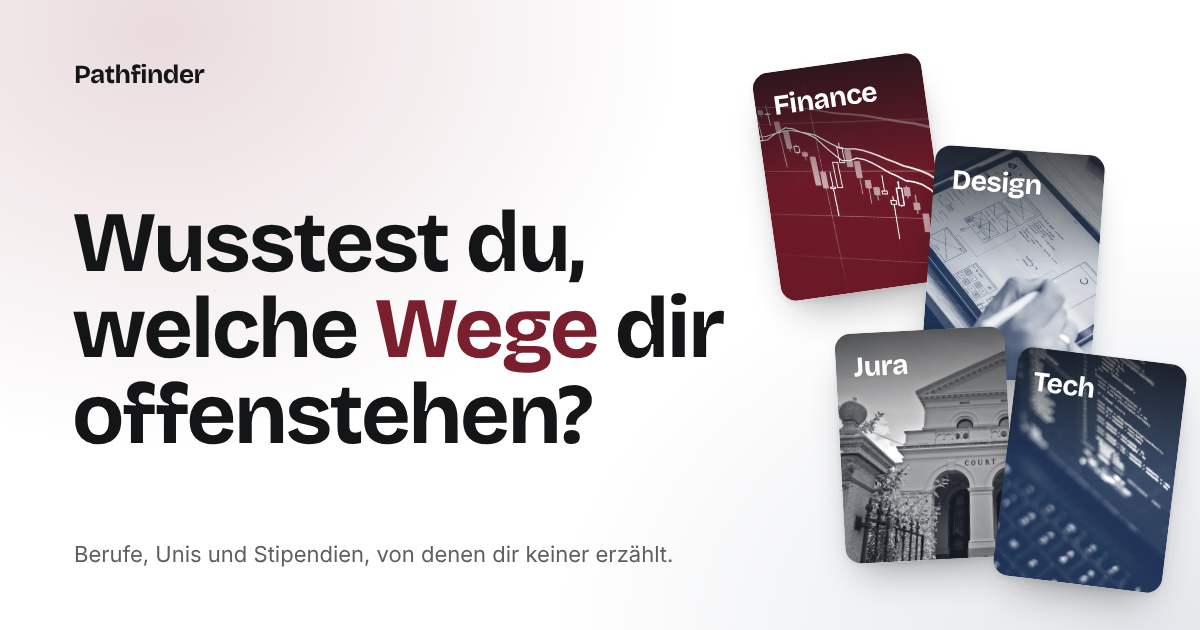
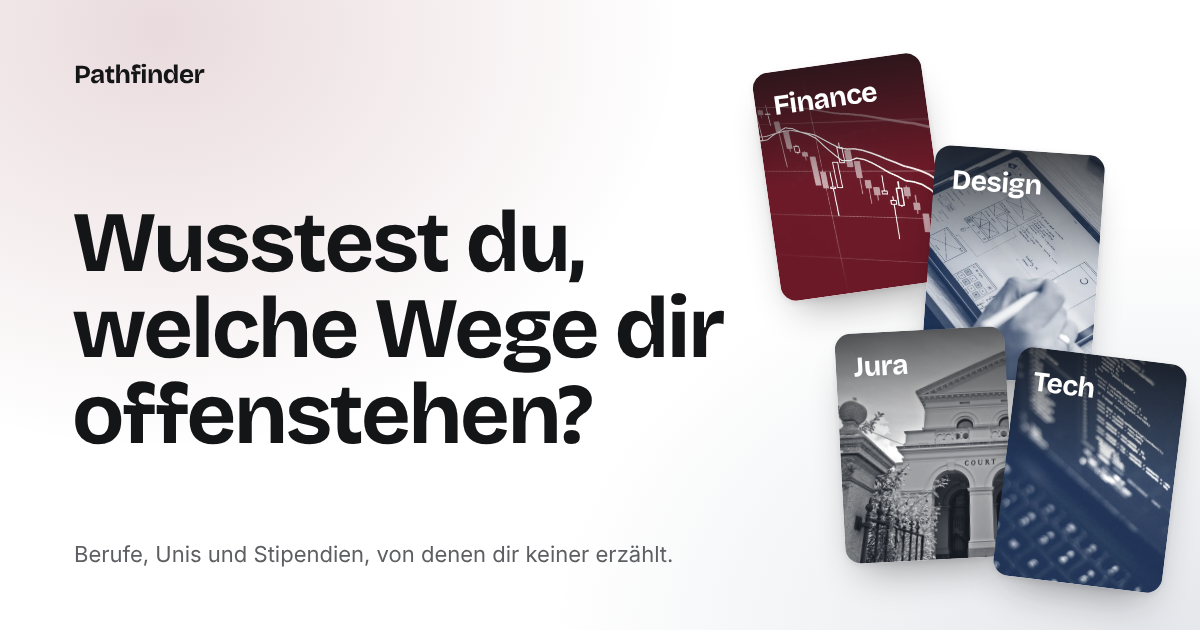
Headline: Wege in black on the site and the social preview image
Claude-Session: https://claude.ai/code/session_019rjoE9zjcxyZ27uGBJF6Mx

Changed region(s): [[0.3083, 0.4825, 0.4933, 0.6032]]

diff --git a/src/styles/sections.css b/src/styles/sections.css
@@ -155,7 +155,7 @@
   text-wrap: balance;
   color: var(--ink);
 }
-.hero__accent { color: var(--oxblood); }
+.hero__accent { color: var(--ink); }
 .hero__sub {
   margin-top: 32px;
   font-size: 20px;
